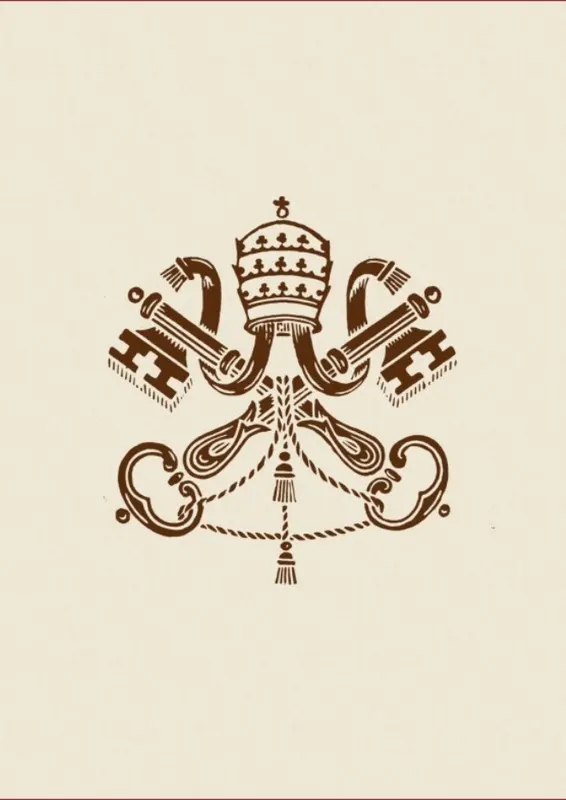
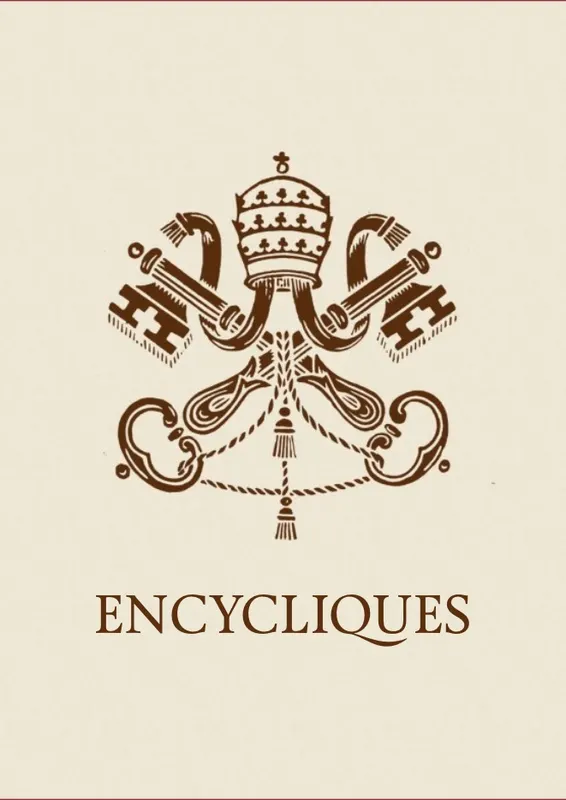
chore(bibliotheque): full-width Prières tile; re-export 4 updated covers
The Études shelf grid is 2-col, and the section has 5 entries, so the
last tile (Prières & Formules) was sitting half-width with an empty
cell beside it. Make `.tool-wrap:last-child` span both columns so the
trailing tile reads cleanly.

Re-optimise four covers from updated sources: compendium, breviloquium,
encycliques, and catechisme-adultes (now sourced from adultes.webp).

Changed region(s): [[0.1802, 0.1875, 0.841, 0.8125], [0.1502, 0.7188, 0.3604, 0.8125], [0.6007, 0.7188, 0.6307, 0.75]]

diff --git a/src/routes/bibliotheque/+page.svelte b/src/routes/bibliotheque/+page.svelte
@@ -810,6 +810,12 @@
 			grid-template-columns: 1fr;
 		}
 	}
+	/* Five tools in a 2-col grid leaves the last tile (Prières & Formules)
+	   half-width with an empty cell beside it. Span it across both
+	   columns. On mobile (single col) `grid-column: 1 / -1` is a no-op. */
+	.tools-grid .tool-wrap:last-child {
+		grid-column: 1 / -1;
+	}
 	.tool-wrap {
 		display: flex;
 		opacity: 0;
